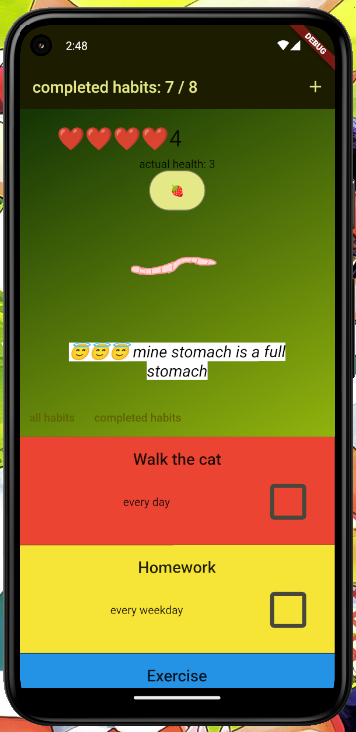
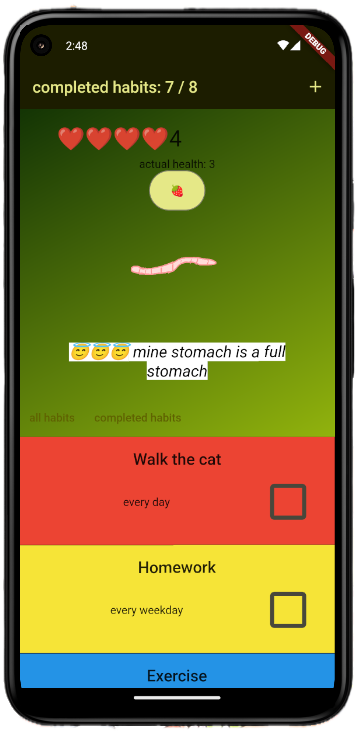
replace image with one containing transparent background

diff --git a/src/components/Card.css b/src/components/Card.css
@@ -19,7 +19,7 @@
     max-width: 500px;
     min-width: 10px;
     padding: 1rem 1.5rem 1rem 1.5rem;
-    /* position: ; */
+    position: relative;
     /* width: 561px; */
     font-family: Helvetica, Arial, sans-serif;
     /* height: 161; */
